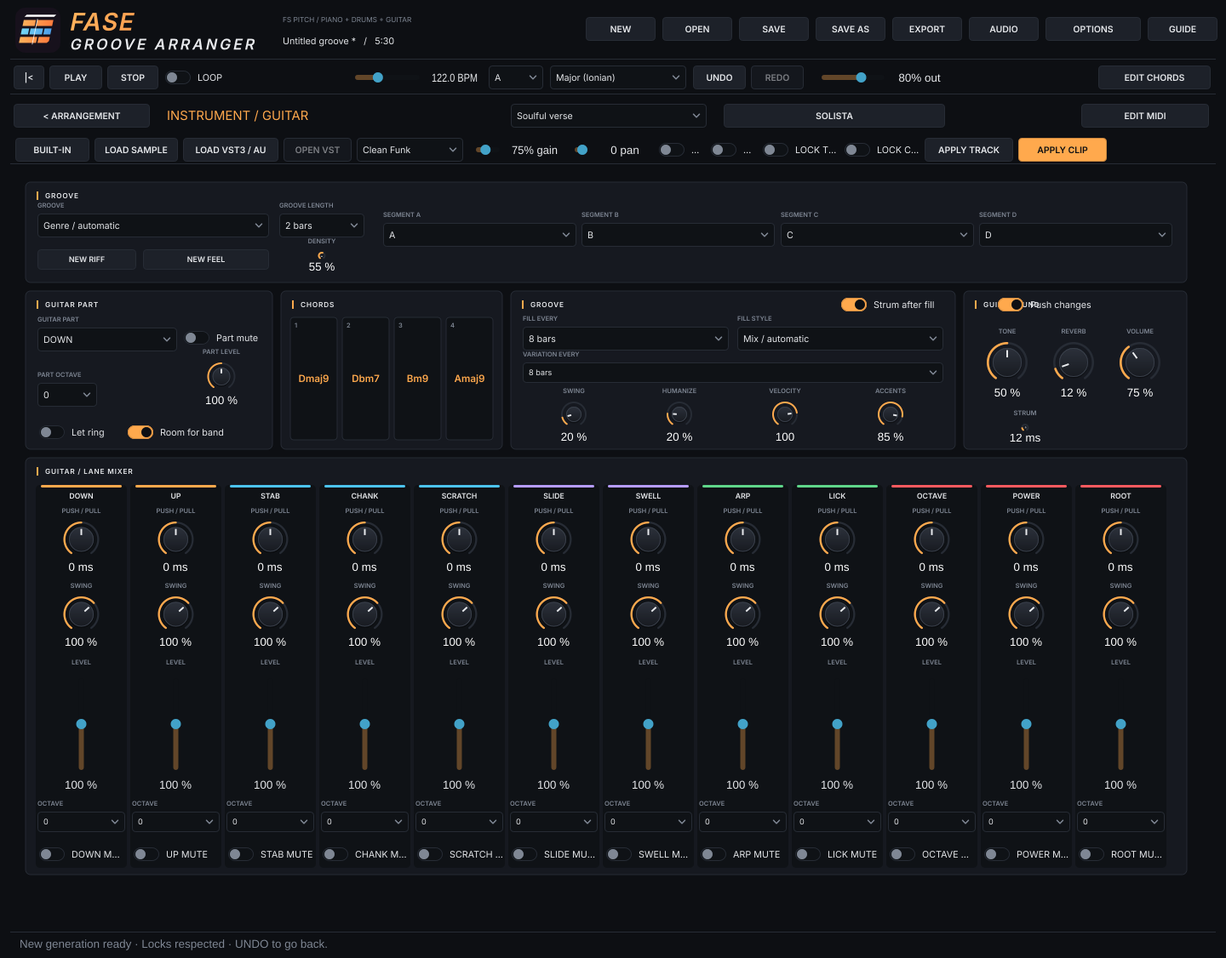
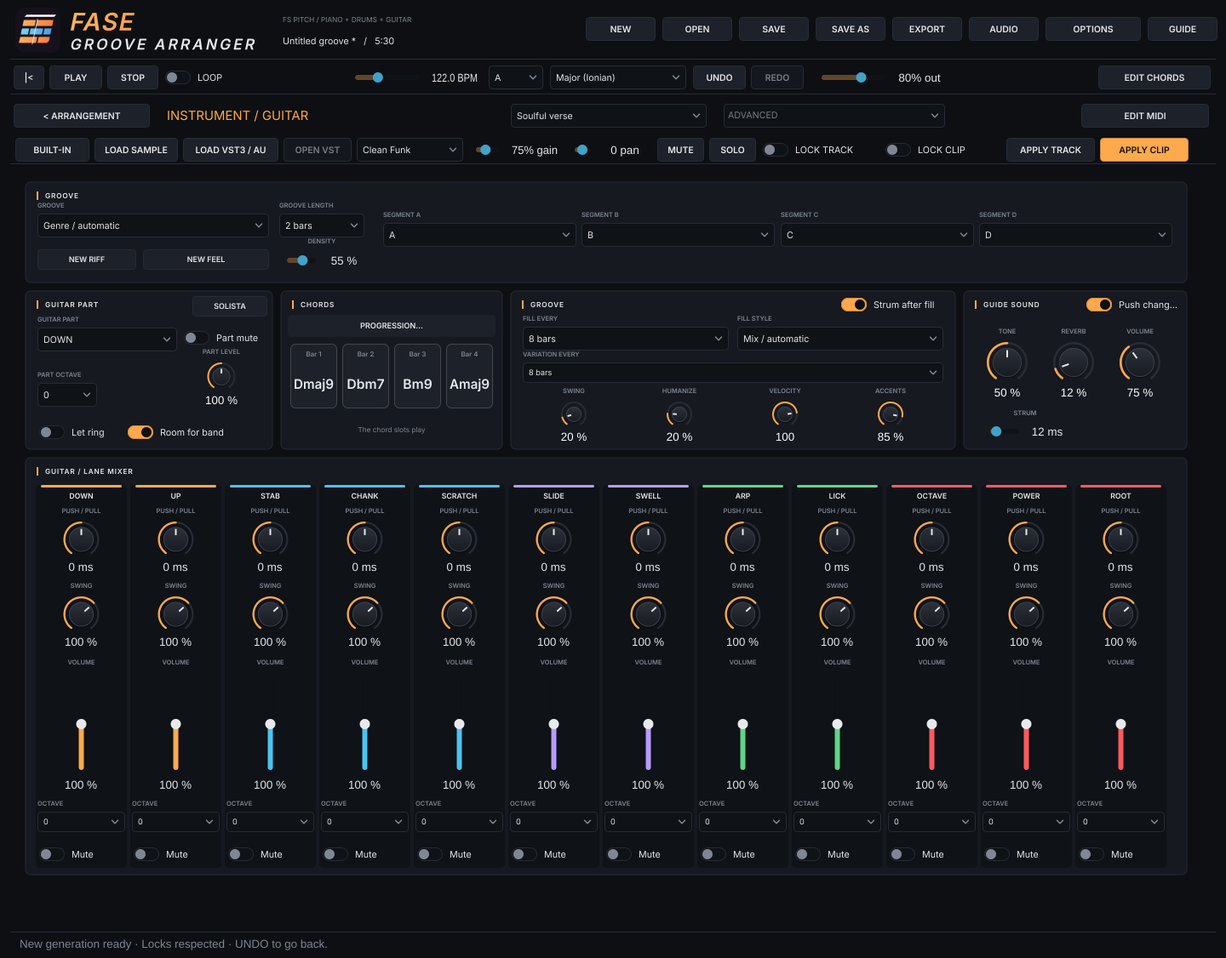
Synchronize shared family controls and independent riff seeds; refresh native guide illustrations

diff --git a/Source/InstrumentPanel.cpp b/Source/InstrumentPanel.cpp
@@ -42,15 +42,22 @@ void InstrumentPanel::updateCircle(){
     for(int i=0;i<7;++i){auto c=sgk::buildChord(s.keyRoot,s.scale,i,s.extension);diatonic.push_back({c.rootPc,c.third==3,juce::String::fromUTF8(sgk::romanNumeral(i,c).c_str()),1});}
     circle.setState(s.keyRoot,s.scale==2,tr(sgk::scaleName(s.scale)),chords,transitions,-1,diatonic);
 }
+void InstrumentPanel::refreshFromProject(){
+    const auto& t=owner.project.tracks[(size_t)owner.selectedTrack];const auto& s=owner.project.settings;
+    for(auto& c:controls){const auto name=c.component->getProperties()["fgaControl"].toString();if(auto* slider=dynamic_cast<juce::Slider*>(c.component.get())){if(name=="VOLUME")slider->setValue(t.gain*100,juce::dontSendNotification);if(name=="Part volume")slider->setValue(t.engine.laneVolume[(size_t)guitarLane]*100,juce::dontSendNotification);for(int lane=0;lane<12&&owner.selectedTrack==3;++lane)if(name==juce::String(fgg::laneShortName(lane))+" VOLUME")slider->setValue(t.engine.laneVolume[(size_t)lane]*100,juce::dontSendNotification);}
+        if(auto* box=dynamic_cast<juce::ComboBox*>(c.component.get())){if(name=="Voicing")box->setSelectedItemIndex(s.voicing,juce::dontSendNotification);if(name=="Extensions")box->setSelectedItemIndex(s.extension,juce::dontSendNotification);if(name.startsWith("Degree "))box->setSelectedItemIndex(s.degrees[(size_t)std::clamp(name.fromLastOccurrenceOf(" ",false,false).getIntValue()-1,0,7)],juce::dontSendNotification);}
+    }
+    if(owner.selectedTrack<3)updateCircle();repaint();
+}
 void InstrumentPanel::heading(const juce::String& name){headings.push_back({name,(int)controls.size()});}
 void InstrumentPanel::apply(std::function<void(EngineOptions&)> fn){owner.checkpoint();fn(owner.project.tracks[(size_t)owner.selectedTrack].engine);owner.project.normalise();owner.changed(false);owner.message("Settings apply on the next generation; the MIDI already written stays editable.");}
 void InstrumentPanel::knob(const juce::String& name,double lo,double hi,double step,double value,std::function<void(EngineOptions&,double)> fn,const juce::String& suffix){
-    auto c=std::make_unique<juce::Slider>();c->setSliderStyle(juce::Slider::RotaryHorizontalVerticalDrag);c->setTextBoxStyle(juce::Slider::TextBoxBelow,false,70,16);c->setColour(juce::Slider::textBoxOutlineColourId,juce::Colours::transparentBlack);c->setRange(lo,hi,step);c->setValue(value,juce::dontSendNotification);c->setTextValueSuffix(suffix);c->getProperties().set("fgaControl",name);c->setTooltip(controlTip(name));c->onDragStart=[this]{owner.checkpoint();};auto* raw=c.get();c->onValueChange=[this,raw,fn]{fn(owner.project.tracks[(size_t)owner.selectedTrack].engine,raw->getValue());owner.dirty=true;owner.audio.updateMix(owner.project);};addAndMakeVisible(*c);controls.push_back({std::move(c),name,true});
+    auto c=std::make_unique<juce::Slider>();c->setSliderStyle(juce::Slider::RotaryHorizontalVerticalDrag);c->setTextBoxStyle(juce::Slider::TextBoxBelow,false,70,16);c->setColour(juce::Slider::textBoxOutlineColourId,juce::Colours::transparentBlack);c->setRange(lo,hi,step);c->setValue(value,juce::dontSendNotification);c->setTextValueSuffix(suffix);c->getProperties().set("fgaControl",name);c->setTooltip(controlTip(name));c->onDragStart=[this]{owner.checkpoint();};auto* raw=c.get();c->onValueChange=[this,raw,fn,name]{fn(owner.project.tracks[(size_t)owner.selectedTrack].engine,raw->getValue());if(name=="VOLUME")owner.gainSlider.setValue(raw->getValue(),juce::dontSendNotification);owner.dirty=true;owner.audio.updateMix(owner.project);if(name=="Part volume"||name.endsWith(" VOLUME"))refreshFromProject();};addAndMakeVisible(*c);controls.push_back({std::move(c),name,true});
 }
 void InstrumentPanel::choice(const juce::String& name,const juce::StringArray& items,int selected,std::function<void(EngineOptions&,int)> fn){auto c=std::make_unique<juce::ComboBox>();c->addItemList(items,1);c->setSelectedItemIndex(selected,juce::dontSendNotification);auto* raw=c.get();c->getProperties().set("fgaControl",name);c->setTooltip(controlTip(name));c->onChange=[this,raw,fn]{apply([&](EngineOptions& e){fn(e,raw->getSelectedItemIndex());});};addAndMakeVisible(*c);controls.push_back({std::move(c),name,false});}
 void InstrumentPanel::sharedChoice(const juce::String& name,const juce::StringArray& items,int selected,std::function<void(int)> fn){auto c=std::make_unique<juce::ComboBox>();c->addItemList(items,1);c->setSelectedItemIndex(selected,juce::dontSendNotification);if(selected<0)c->setTextWhenNothingSelected("Browse...");c->getProperties().set("fgaControl",name);auto* raw=c.get();c->onChange=[this,raw,fn]{owner.checkpoint();fn(raw->getSelectedItemIndex());owner.changed(false);};addAndMakeVisible(*c);controls.push_back({std::move(c),name,false});}
 void InstrumentPanel::action(const juce::String& name,std::function<void()> fn){auto c=std::make_unique<juce::TextButton>(tr(name=="RANDOM CHORDS"?"Random":name));c->getProperties().set("fgaControl",name);c->setTooltip(controlTip(name));c->onClick=std::move(fn);addAndMakeVisible(*c);controls.push_back({std::move(c),{},false});}
-void InstrumentPanel::toggle(const juce::String& name,bool value,std::function<void(EngineOptions&,bool)> fn){auto c=std::make_unique<juce::ToggleButton>(tr(name));c->setToggleState(value,juce::dontSendNotification);auto* raw=c.get();c->getProperties().set("fgaControl",name);c->setTooltip(controlTip(name));c->onClick=[this,raw,fn]{apply([&](EngineOptions& e){fn(e,raw->getToggleState());});};addAndMakeVisible(*c);controls.push_back({std::move(c),{},false});}
+void InstrumentPanel::toggle(const juce::String& name,bool value,std::function<void(EngineOptions&,bool)> fn){auto c=std::make_unique<juce::ToggleButton>(tr(name=="Part mute"?"Mute":name));c->setToggleState(value,juce::dontSendNotification);auto* raw=c.get();c->getProperties().set("fgaControl",name);c->setTooltip(controlTip(name));c->onClick=[this,raw,fn]{apply([&](EngineOptions& e){fn(e,raw->getToggleState());});};addAndMakeVisible(*c);controls.push_back({std::move(c),{},false});}
 void InstrumentPanel::rebuild(){
     controls.clear();headings.clear();const int track=owner.selectedTrack;const auto e=owner.project.tracks[(size_t)track].engine;const bool piano=track==0,bass=track==1,strings=track==2,guitar=track==3,drum=track>=4;
     if(piano){heading("HARMONY & SCALES");juce::StringArray voicings,extensions;for(int i=0;i<sgk::numVoicings;++i)voicings.add(sgk::voicingName(i));for(int i=0;i<sgk::numExtensions;++i)extensions.add(sgk::extensionName(i));sharedChoice("Voicing",voicings,owner.project.settings.voicing,[this](int v){owner.project.settings.voicing=v;});sharedChoice("Extensions",extensions,owner.project.settings.extension,[this](int v){owner.project.settings.extension=v;});}
@@ -62,7 +69,7 @@ void InstrumentPanel::rebuild(){
     knob("SWING",0,150,1,(e.swing<0?owner.project.settings.swing:e.swing)*100,[](auto& o,double v){o.swing=v/100;}," %");knob("HUMANIZE",0,100,1,(e.humanize<0?owner.project.settings.humanize:e.humanize)*100,[](auto& o,double v){o.humanize=v/100;}," %");knob("DENSITY",0,100,1,(e.density<0?owner.project.settings.density:e.density)*100,[](auto& o,double v){o.density=v/100;}," %");knob("VELOCITY",1,127,1,e.velocity,[](auto& o,double v){o.velocity=(int)v;});
     if(piano){knob("GATE",2,200,1,e.gate*100,[](auto& o,double v){o.gate=v/100;}," %");knob("REGISTER",24,108,1,e.centre,[](auto& o,double v){o.centre=(int)v;});knob("STRUM",0,100,1,e.strum*100,[](auto& o,double v){o.strum=v/100;}," %");choice("STRUM DIRECTION",{"Up","Down","Alternate"},e.strumDirection,[](auto& o,int v){o.strumDirection=v;});choice("MOVEMENT",{"Off","Subtle","Lively"},e.movement,[](auto& o,int v){o.movement=v;});auto range=std::make_unique<juce::Slider>(juce::Slider::TwoValueHorizontal,juce::Slider::NoTextBox);range->getProperties().set("fgaControl","Range");range->setRange(0,127,1);range->setMinAndMaxValues(e.rangeLow,e.rangeHigh,juce::dontSendNotification);range->setTooltip(controlTip("RANGE LOW"));range->onDragStart=[this]{owner.checkpoint();};auto* rangePtr=range.get();range->onValueChange=[this,rangePtr]{auto& o=owner.project.tracks[(size_t)owner.selectedTrack].engine;o.rangeLow=(int)rangePtr->getMinValue();o.rangeHigh=(int)rangePtr->getMaxValue();owner.dirty=true;};addAndMakeVisible(*range);controls.push_back({std::move(range),"Range",false});toggle("Top +8va",e.octaveTop,[](auto& o,bool v){o.octaveTop=v;});toggle("Realism",e.realism,[](auto& o,bool v){o.realism=v;});
         juce::StringArray top,approach,feel;for(int i=0;i<sgk::numTopLines;++i)top.add(sgk::topLineName(i));for(int i=0;i<sgk::numApproachStyles;++i)approach.add(sgk::approachStyleName(i));for(int i=0;i<sgk::numHumanizeStyles;++i)feel.add(sgk::humanizeStyleName(i));choice("TOP LINE",top,e.topLine,[](auto& o,int v){o.topLine=v;});choice("APPROACH",approach,e.approach,[](auto& o,int v){o.approach=v;});choice("HUMANIZE STYLE",feel,e.humanizeStyle,[](auto& o,int v){o.humanizeStyle=v;});knob("EVOLVE",0,32,4,e.evolveBars,[](auto& o,double v){o.evolveBars=(int)v;}," bars");}
-    else if(guitar||drum){knob("ACCENTS",0,100,1,e.accent*100,[](auto& o,double v){o.accent=v/100;}," %");if(guitar){knob("STRUM",0,80,1,e.strum*80,[](auto& o,double v){o.strum=v/80;}," ms");toggle("Let ring",e.letRing,[](auto& o,bool v){o.letRing=v;});toggle("Room for band",e.roomForBand,[](auto& o,bool v){o.roomForBand=v;});toggle("Push changes",e.pushChanges,[](auto& o,bool v){o.pushChanges=v;});}else{knob("MIDI NOTE",0,127,1,e.midiNote<0?fgd::defaultNote(track-4):e.midiNote,[](auto& o,double v){o.midiNote=(int)v;});toggle("Genre feel",e.genreFeel,[](auto& o,bool v){o.genreFeel=v;});toggle("Bass space",e.bassSpace,[](auto& o,bool v){o.bassSpace=v;});}}
+    else if(guitar||drum){knob("ACCENTS",0,100,1,e.accent*100,[](auto& o,double v){o.accent=v/100;}," %");if(guitar){knob("STRUM",0,80,1,e.strum*80,[](auto& o,double v){o.strum=v/80;}," ms");toggle("Let ring",e.letRing,[](auto& o,bool v){o.letRing=v;});toggle("Room for band",e.roomForBand,[](auto& o,bool v){o.roomForBand=v;});}else{knob("MIDI NOTE",0,127,1,e.midiNote<0?fgd::defaultNote(track-4):e.midiNote,[](auto& o,double v){o.midiNote=(int)v;});toggle("Genre feel",e.genreFeel,[](auto& o,bool v){o.genreFeel=v;});toggle("Bass space",e.bassSpace,[](auto& o,bool v){o.bassSpace=v;});}}
     if(track<3){
         heading("PERFORMANCE");
         knob("Riff seed",0,99999,1,e.riffSeed,[](auto& o,double v){o.riffSeed=(std::uint32_t)v;});
@@ -82,17 +89,19 @@ void InstrumentPanel::rebuild(){
     if(track<3){knob("CHORUS",0,100,1,e.chorus*100,[](auto& o,double v){o.chorus=v/100;}," %");knob("PUMP",0,100,1,e.pump*100,[](auto& o,double v){o.pump=v/100;}," %");knob("PUMP RELEASE",5,100,1,e.pumpRelease*100,[](auto& o,double v){o.pumpRelease=v/100;}," % beat");choice("Sidechain Rate",{"1/4","1/8","1/2","1/16"},e.pumpRate,[](auto& o,int v){o.pumpRate=v;});choice("Sidechain Source",{"Tempo (internal)","Kick MIDI"},e.pumpSource,[](auto& o,int v){o.pumpSource=v;});}
     if(guitar||drum){heading(guitar?"GUITAR / LANE MIXER":"DRUM / POCKET");const int lanes=guitar?12:1;for(int i=0;i<lanes;++i){const size_t l=(size_t)i;const juce::String name=guitar?fgg::laneShortName(i):fgd::laneName(track-4);if(guitar){knob(name+" VOLUME",0,200,1,e.laneVolume[l]*100,[l](auto& o,double v){o.laneVolume[l]=v/100;}," %");choice(name+" OCTAVE",{"-2","-1","0","+1","+2"},e.laneOctave[l]+2,[l](auto& o,int v){o.laneOctave[l]=v-2;});toggle(name+" MUTE",e.laneMute[l],[l](auto& o,bool v){o.laneMute[l]=v;});}knob(name+" SWING",0,150,1,e.laneSwing[l]*100,[l](auto& o,double v){o.laneSwing[l]=v/100;}," %");knob(name+" PUSH / PULL",-100,100,1,e.laneShift[l],[l](auto& o,double v){o.laneShift[l]=v;}," ms");}}
     if(guitar){
+        action("PLAYING...",[this]{auto e=owner.project.tracks[3].engine;juce::PopupMenu menu;menu.addItem(1,tr("Let ring"),true,e.letRing);menu.addItem(2,tr("Room for band"),true,e.roomForBand);menu.addItem(3,tr("Push changes"),true,e.pushChanges);juce::Component::SafePointer<InstrumentPanel> self(this);menu.showMenuAsync(juce::PopupMenu::Options(),[self](int id){if(!self||id==0)return;self->apply([id](auto& o){if(id==1)o.letRing=!o.letRing;if(id==2)o.roomForBand=!o.roomForBand;if(id==3)o.pushChanges=!o.pushChanges;});self->rebuild();});});
         action("SOLISTA",[this]{if(owner.leadButton.onClick)owner.leadButton.onClick();});
         if(auto* button=dynamic_cast<juce::Button*>(controls.back().component.get())){button->setClickingTogglesState(true);button->setToggleState(owner.project.settings.guitarLead,juce::dontSendNotification);}
         juce::StringArray lanes;for(int i=0;i<12;++i)lanes.add(fgg::laneShortName(i));
         sharedChoice("Guitar part",lanes,guitarLane,[this](int v){guitarLane=v;juce::Component::SafePointer<InstrumentPanel> self(this);juce::MessageManager::callAsync([self]{if(self)self->rebuild();});});
         knob("Part level",0,200,1,e.laneLevel[(size_t)guitarLane]*100,[lane=guitarLane](auto& o,double v){o.laneLevel[(size_t)lane]=v/100;}," %");
+        knob("Part volume",0,200,1,e.laneVolume[(size_t)guitarLane]*100,[lane=guitarLane](auto& o,double v){o.laneVolume[(size_t)lane]=v/100;}," %");
         choice("Part octave",{"-2","-1","0","+1","+2"},e.laneOctave[(size_t)guitarLane]+2,[lane=guitarLane](auto& o,int v){o.laneOctave[(size_t)lane]=v-2;});
         toggle("Part mute",e.laneMute[(size_t)guitarLane],[lane=guitarLane](auto& o,bool v){o.laneMute[(size_t)lane]=v;});
         auto chords=std::make_unique<ChordSummary>(owner,[this]{owner.showChordMenu();});chords->getProperties().set("fgaControl","Chord summary");addAndMakeVisible(*chords);controls.push_back({std::move(chords),{},false});
     }
     if(track>=3)action("NEW FEEL",[this]{apply([](auto& o){o.humanizeSeed=(std::uint32_t)juce::Random::getSystemRandom().nextInt({1,100000});});});
-    action("NEW RIFF",[this]{apply([](auto& o){o.riffSeed=(std::uint32_t)juce::Random::getSystemRandom().nextInt({1,100000});});});
+    action("NEW RIFF",[this]{const auto& e=owner.project.tracks[(size_t)owner.selectedTrack].engine;if(owner.selectedTrack<3&&std::any_of(e.segmentLocked.begin(),e.segmentLocked.end(),[](bool locked){return locked;}))owner.randomPianoMaterial(false,owner.selectedTrack==1);else apply([](auto& o){o.riffSeed=(std::uint32_t)juce::Random::getSystemRandom().nextInt({1,100000});o.pattern=-1;});juce::Component::SafePointer<InstrumentPanel> self(this);juce::MessageManager::callAsync([self]{if(self)self->rebuild();});});
     if(track<3){
         juce::StringArray presets;for(const auto& p:sgk::progressionPresets())presets.add(juce::String(p.category)+" / "+p.name);
         sharedChoice("Ready progressions",presets,-1,[this](int v){chooseProgression(owner.project,v);updateCircle();juce::Component::SafePointer<InstrumentPanel> self(this);juce::MessageManager::callAsync([self]{if(self)self->rebuild();});});
@@ -163,7 +172,7 @@ void InstrumentPanel::resized(){
         card(guitar?"GUITAR PART":"KIT & SOUNDS",18,my,part,186);
         card(guitar?"CHORDS":"DRUM / POCKET",318,my,chords,186);
         card("GROOVE",grooveX,my,grooveW,186);card("GUIDE SOUND",W-sound-18,my,sound,186);
-        if(guitar){tool("SOLISTA",214,my+6,88);put("Guitar part",32,my+43,164);put("Part mute",202,my+43,92,24);put("Part octave",32,my+108,70);put("Part level",202,my+81,92,55);put("Let ring",32,my+154,100,24);put("Room for band",136,my+154,158,24);put("Chord summary",326,my+28,244,150);put("STRUM",W-sound+4,my+153,100,24);put("Strum after fill",grooveX+grooveW-136,my+6,122,20);put("Push changes",W-138,my+6,110,20);}
+        if(guitar){tool("SOLISTA",214,my+6,88);put("Guitar part",32,my+43,164);put("Part mute",202,my+43,92,24);put("Part octave",32,my+108,70);put("Part level",150,my+81,70,55);put("Part volume",228,my+81,72,55);put("Let ring",32,my+154,100,24);put("Room for band",136,my+154,158,24);put("Chord summary",326,my+28,244,150);put("STRUM",W-sound+4,my+153,100,24);put("Strum after fill",grooveX+grooveW-136,my+6,122,20);tool("PLAYING...",W-112,my+6,84);}
         else{put("MIDI NOTE",32,my+45,100,74);put("Genre feel",148,my+42,146,24);put("Bass space",148,my+76,146,24);put("Crash after fill",32,my+143,180,24);const auto name=juce::String(fgd::laneName(track-4));put(name+" SWING",332,my+58,110,80);put(name+" PUSH / PULL",450,my+58,110,80);}
         put("FILL EVERY",grooveX+14,my+42,(grooveW-38)/2);put("FILL STYLE",grooveX+24+(grooveW-38)/2,my+42,(grooveW-38)/2);
         put("VARIATION EVERY",grooveX+14,my+84,grooveW-28,24);
@@ -171,7 +180,7 @@ void InstrumentPanel::resized(){
         const int sx=W-sound-4;int kx=0;for(const auto* n:{"TONE","REVERB","VOLUME"})put(n,sx+(kx++)*78,my+57,74,70);
     }
     if(!piano)for(auto& c:controls)if(c.component->getProperties()["fgaControl"].toString()=="DENSITY"||c.component->getProperties()["fgaControl"].toString()=="STRUM")if(auto* slider=dynamic_cast<juce::Slider*>(c.component.get())){slider->setSliderStyle(juce::Slider::LinearHorizontal);slider->setTextBoxStyle(juce::Slider::TextBoxRight,false,48,22);}
-    for(auto& c:controls){const auto name=c.component->getProperties()["fgaControl"].toString();if(name=="REGISTER")if(auto* slider=dynamic_cast<juce::Slider*>(c.component.get()))slider->textFromValueFunction=[](double v){return juce::MidiMessage::getMidiNoteName((int)v,true,true,4);};if(owner.selectedTrack==3&&name.endsWith(" MUTE"))if(auto* button=dynamic_cast<juce::Button*>(c.component.get()))button->setButtonText(tr("Mute"));}
+    for(auto& c:controls){const auto name=c.component->getProperties()["fgaControl"].toString();if(name=="REGISTER")if(auto* slider=dynamic_cast<juce::Slider*>(c.component.get())){slider->textFromValueFunction=[](double v){return juce::MidiMessage::getMidiNoteName((int)v,true,true,4);};slider->updateText();}if(owner.selectedTrack==3&&name.endsWith(" MUTE"))if(auto* button=dynamic_cast<juce::Button*>(c.component.get()))button->setButtonText(tr("Mute"));}
     int bottom=y+(piano?350:324);
     if(piano){
         card("RHYTHM / VELOCITY",18,bottom,W-36,280);
@@ -208,7 +217,7 @@ void InstrumentPanel::paint(juce::Graphics& g){
     g.fillAll(Palette::background);
     for(const auto& card:cards){g.setColour(Palette::panel);g.fillRoundedRectangle(card.bounds.toFloat(),6);g.setColour(Palette::panelEdge);g.drawRoundedRectangle(card.bounds.toFloat(),6,1);g.setColour(Palette::accent);g.fillRect(card.bounds.getX()+13,card.bounds.getY()+11,2,10);auto font=FamilyTheme::font(10,true);font.setExtraKerningFactor(.08f);g.setFont(font);g.setColour(Palette::text);g.drawText(tr(card.title),card.bounds.getX()+23,card.bounds.getY()+4,card.bounds.getWidth()-32,24,juce::Justification::centredLeft);}
     if(owner.selectedTrack==3)for(const auto& card:cards)if(card.title=="GUITAR / LANE MIXER"){const int lw=(getWidth()-64)/12;for(int lane=0;lane<12;++lane){const int x=32+lane*lw;auto r=juce::Rectangle<float>((float)x-2,(float)card.bounds.getY()+32,(float)lw-4,450);g.setColour(Palette::field);g.fillRoundedRectangle(r,5);const auto ink=lane<=1?Palette::accent:lane<=4?Palette::accent2:lane<=6?Palette::percussion:lane<=8?Palette::cymbals:Palette::toms;g.setColour(ink);g.fillRoundedRectangle(r.withHeight(3).reduced(6,0),1.5f);g.setColour(Palette::text);g.setFont(FamilyTheme::font(10.5f,true));g.drawText(tr(fgg::laneShortName(lane)),r.withTrimmedTop(5).withHeight(16),juce::Justification::centred);}}
-    for(const auto& c:controls){if(c.component->getWidth()==0||dynamic_cast<PianoStepGrid*>(c.component.get()))continue;auto r=c.component->getBounds();if(c.caption.startsWith("Degree ")||c.caption.startsWith("Inversion "))continue;g.setColour(Palette::dim);g.setFont(FamilyTheme::font(9,true));auto caption=c.caption;if(owner.selectedTrack==3)for(int lane=0;lane<12;++lane){auto prefix=juce::String(fgg::laneShortName(lane))+" ";if(caption.startsWith(prefix))caption=caption.substring(prefix.length());}g.drawText(tr(caption).toUpperCase(),r.getX(),r.getY()-17,r.getWidth(),15,c.knob?juce::Justification::centred:juce::Justification::centredLeft);}
+    for(const auto& c:controls){if(c.component->getWidth()==0||dynamic_cast<PianoStepGrid*>(c.component.get()))continue;auto r=c.component->getBounds();if(c.caption.startsWith("Degree ")||c.caption.startsWith("Inversion "))continue;g.setColour(Palette::dim);g.setFont(FamilyTheme::font(9,true));auto caption=c.caption;if(caption.startsWithIgnoreCase("Part "))caption=caption.substring(5);if(owner.selectedTrack==3)for(int lane=0;lane<12;++lane){auto prefix=juce::String(fgg::laneShortName(lane))+" ";if(caption.startsWith(prefix))caption=caption.substring(prefix.length());}g.drawText(tr(caption).toUpperCase(),r.getX(),r.getY()-17,r.getWidth(),15,c.knob?juce::Justification::centred:juce::Justification::centredLeft);}
     if(owner.selectedTrack<3){auto names=chordNames(owner.project.settings);const int sw=(getWidth()-346)/8;for(size_t i=0;i<8;++i){auto card=juce::Rectangle<float>((float)(326+(int)i*sw),28,(float)(sw-4),104);g.setColour(Palette::field.withAlpha(i<names.size()?1.f:.45f));g.fillRoundedRectangle(card,6);g.setColour(Palette::panelEdge);g.drawRoundedRectangle(card,6,1);if(i>=names.size())continue;g.setColour(Palette::text);g.setFont(FamilyTheme::font(14,true));g.drawText(juce::String::fromUTF8(names[i].c_str()),328+(int)i*sw,67,sw-8,22,juce::Justification::centred);}}
 }
 }

diff --git a/Source/MainComponent.cpp b/Source/MainComponent.cpp
@@ -243,7 +243,7 @@ void MainComponent::refreshControls(){
     refreshing=true;auto& s=project.settings;durationLabel.setText(juce::String((int)(project.length()*60/s.bpm)/60)+":"+juce::String((int)(project.length()*60/s.bpm)%60).paddedLeft('0',2),juce::dontSendNotification);leadButton.setToggleState(s.guitarLead,juce::dontSendNotification);leadButton.setButtonText("SOLISTA");sectionSelector.clear(juce::dontSendNotification);for(size_t i=0;i<project.sections.size();++i)sectionSelector.addItem(utf(project.sections[i].name),((int)i)+1);sectionSelector.setSelectedId(selectedSection+1,juce::dontSendNotification);genreBox.setSelectedId(s.genre+1,juce::dontSendNotification);keyBox.setSelectedId(s.key+1,juce::dontSendNotification);scaleBox.setSelectedId(s.scale+1,juce::dontSendNotification);extensionBox.setSelectedId(s.extension+1,juce::dontSendNotification);voicingBox.setSelectedId(s.voicing+1,juce::dontSendNotification);bassBox.setSelectedId(s.bassMode+1,juce::dontSendNotification);stringsBox.setSelectedId(s.stringsMode+1,juce::dontSendNotification);
     tempoSlider.setValue(s.bpm,juce::dontSendNotification);swingSlider.setValue(s.swing*100,juce::dontSendNotification);densitySlider.setValue(s.density*100,juce::dontSendNotification);humanizeSlider.setValue(s.humanize*100,juce::dontSendNotification);masterSlider.setValue(project.masterGain*100,juce::dontSendNotification);loopButton.setToggleState(project.loop,juce::dontSendNotification);
     juce::StringArray chords;for(auto name:chordNames(s))chords.add(utf(name));chordsLabel.setText(tr("HARMONY")+"   "+chords.joinIntoString("    /    "),juce::dontSendNotification);
-    undoButton.setEnabled(!undoStack.empty());redoButton.setEnabled(!redoStack.empty());refreshing=false;refreshTrack();updateSizes();translateControls(*this);
+    undoButton.setEnabled(!undoStack.empty());redoButton.setEnabled(!redoStack.empty());refreshing=false;refreshTrack();if(page==Page::instrument)instrumentPanel.refreshFromProject();updateSizes();translateControls(*this);
 }
 void MainComponent::refreshTrack(){
     refreshing=true;const auto& t=project.tracks[(size_t)selectedTrack];gainSlider.setValue(t.gain*100,juce::dontSendNotification);panSlider.setValue(t.pan*100,juce::dontSendNotification);muteButton.setToggleState(t.mute,juce::dontSendNotification);soloButton.setToggleState(t.solo,juce::dontSendNotification);lockButton.setToggleState(t.locked,juce::dontSendNotification);lockClipButton.setToggleState(clip().locked,juce::dontSendNotification);

diff --git a/tests/CoreTests.cpp b/tests/CoreTests.cpp
@@ -9,6 +9,7 @@
 void check(bool b,const char* message){if(!b)throw std::runtime_error(message);}
 int main(int argc,char** argv){try{
     {auto p=fga::newProject(1);p.sections={{fga::Section::main,4,"Main"}};p.normalise();auto& e=p.tracks[0].engine;e.pattern=sgk::userPatternIndex();e.userRight.fill('.');e.userLeft.fill('.');e.userRight[0]='x';e.userVelRight[0]=37;e.realism=false;e.humanize=0;e.swing=0;e.strum=0;e.fillEvery=0;e.variationEvery=0;fga::generate(p,fga::Scope::track,0);check(!p.tracks[0].clips[0].notes.empty(),"custom piano grid generates notes");auto before=p.tracks[0].clips[0].notes;e.userVelRight[0]=120;fga::generate(p,fga::Scope::track,0);check(p.tracks[0].clips[0].notes[0].velocity>before[0].velocity,"per-step piano velocity reaches engine");e.inversions[0]=2;fga::generate(p,fga::Scope::track,0);check(p.tracks[0].clips[0].notes!=before,"per-chord inversion reaches engine");e.pedalCC=true;auto events=fga::events(p,0);bool pedal=false,expression=false;for(auto event:events){pedal=pedal||event.controller==64;expression=expression||event.controller==11;}check(pedal&&expression,"pedal and expression controller events");auto original=p;fga::applyPianoIntention(p,0,1,true,true,123);check(p.settings.degrees==original.settings.degrees&&p.tracks[0].engine.userRight==original.tracks[0].engine.userRight,"DNA rhythm and harmony locks");}
+    {auto p=fga::newProject(1);auto& e=p.tracks[0].engine;e.pattern=-1;e.riffSeed=123;auto a=fga::pianoEngineSettings(p,0,55);auto patternA=sgk::GrooveEngine::basePattern(a);e.riffSeed=9876;auto b=fga::pianoEngineSettings(p,0,55);auto patternB=sgk::GrooveEngine::basePattern(b);check(patternA.rightHand!=patternB.rightHand||patternA.leftHand!=patternB.leftHand,"riff seed changes the automatic genre groove");check(a.humanizeSeed==b.humanizeSeed,"riff and humanize seeds are independent");}
     for(int genre=0;genre<13;++genre){
         auto p=fga::newProject(genre);auto original=p;
         {auto form=p;form.settings.songMinutes=20;fga::arrangeSong(form);check(form.length()==p.length(),"legacy minutes do not constrain musical form");auto slow=p;slow.settings.bpm=80;fga::arrangeSong(slow);check(slow.length()==p.length(),"tempo does not stretch a musical form to minutes");auto developing=p;developing.tracks[0].engine.grooveBars=4;fga::arrangeSong(developing);check(developing.length()>p.length(),"longer groove develops over more complete phrases");}

diff --git a/Source/UiText.cpp b/Source/UiText.cpp
@@ -24,10 +24,12 @@ juce::String controlTip(const juce::String& key){
     if(key.endsWithIgnoreCase(" PUSH / PULL"))return tr("PUSH: ahead of the beat (-) or laid back (+), in milliseconds");
     if(key.endsWithIgnoreCase(" SWING"))return tr("SWING: how much of the swing this lane takes (100% = as the Swing knob)");
     if(key.endsWithIgnoreCase(" OCTAVE")||key=="Part octave")return tr("This lane up or down by octaves (the voicing keeps its shape)");
-    if(key.endsWithIgnoreCase(" VOLUME")&&key!="VOLUME")return tr("volume of the guide sound. The MIDI velocities don't change: LEVEL does that");
+    if(key=="Part volume"||(key.endsWithIgnoreCase(" VOLUME")&&key!="VOLUME"))return tr("volume of the guide sound. The MIDI velocities don't change: LEVEL does that");
     if(key=="Part level")return tr("This lane's LEVEL: its MIDI velocities (and so the clips) go up or down");
     if(key=="Range")return controlTip("RANGE LOW");
     if(key=="Ready progressions")return controlTip("PROGRESSION");
+    if(key=="NEW RIFF")return tr("New random funky riff (locked parts are kept)");
+    if(key.endsWithIgnoreCase(" MUTE")||key=="Part mute")return tr("Mute this lane (MIDI out, guide guitar and clips)");
     if(key.equalsIgnoreCase("GROOVE"))return tr("The rhythm of both hands, grouped by genre");
     if(key.equalsIgnoreCase("REGISTER"))return tr("Moves the right hand up or down the keyboard");
     if(key.equalsIgnoreCase("STRUM"))return tr("Rolls the chord notes like a pianist instead of hitting them all together");

diff --git a/Source/core/Project.cpp b/Source/core/Project.cpp
@@ -62,7 +62,8 @@ template<class E, class Filter> std::vector<Note> notesFrom(const std::vector<E>
 }
 sgk::GrooveSettings pianoEngineSettings(const Project& p,int track,std::uint32_t seed){
     const auto& s=p.settings;const auto& e=p.tracks[(size_t)track].engine;auto trackSettings=s;if(e.density>=0)trackSettings.density=e.density;
-    auto ps=pianoSettings(trackSettings,seed);
+    auto ps=pianoSettings(trackSettings,e.riffSeed?e.riffSeed:seed);
+    ps.humanizeSeed=e.humanizeSeed?e.humanizeSeed:seed;
     ps.swing=(float)(e.swing<0?s.swing:e.swing);ps.humanize=(float)(e.humanize<0?s.humanize:e.humanize);ps.riffDensity=(float)(e.density<0?s.density:e.density);
     ps.velocity=e.velocity;ps.gate=(float)e.gate;ps.strum=(float)e.strum;ps.centre=e.centre;ps.movement=e.movement;ps.octaveTop=e.octaveTop;
     ps.strumDirection=e.strumDirection;ps.topLine=(sgk::TopLine)e.topLine;ps.approach=(sgk::ApproachStyle)e.approach;ps.evolveBars=e.evolveBars;ps.humanizeStyle=e.humanizeStyle;ps.bassFeel=e.bassFeel;

diff --git a/Source/InstrumentPanel.h b/Source/InstrumentPanel.h
@@ -11,6 +11,7 @@ class InstrumentPanel : public juce::Component {
 public:
     explicit InstrumentPanel(MainComponent&);
     void rebuild();
+    void refreshFromProject();
     juce::String layoutProblems()const;
     int sectionPosition(const juce::String& name)const{for(size_t i=0;i<headings.size()&&i<headingY.size();++i)if(headings[i].first==name)return headingY[i];return 0;}
     juce::StringArray sectionNames()const{juce::StringArray names;for(const auto& h:headings)names.add(h.first);return names;}

diff --git a/docs/VALIDATION.md b/docs/VALIDATION.md
@@ -2,7 +2,7 @@
 
 ## Family editor revision, 0.4.0
 
-[Native builds on Windows, macOS and Linux](https://github.com/wsx79/fasegroovearranger/actions/runs/39385637071), source `56e67d16c57446acc098fe7218c2b76bf39f115c`, passed all four jobs. Native screenshots were inspected against the original Piano extended layout, Drums grid and Guitar layout. Panel bounds/overlap checks passed for Piano, Bass, Strings, Kick and Guitar; six-language switching and original musical tool checks passed. Further visual refinements and editing-gesture/audio tests are part of the subsequent source revision and require that revision’s CI result.
+[Native builds on Windows, macOS and Linux](https://github.com/wsx79/fasegroovearranger/actions/runs/39385637071), source `56e67d16c57446acc098fe7218c2b76bf39f115c`, passed all four jobs. Native screenshots were inspected against the original Piano extended layout, Drums grid and Guitar layout. Panel bounds/overlap checks passed for Piano, Bass, Strings, Kick and Guitar; six-language switching and original musical tool checks passed. The subsequent [native revision](https://github.com/wsx79/fasegroovearranger/actions/runs/39387405449), source `f53d1b61532f9a45b3a54a862f4af22289092692`, also passed all four jobs. Actual editor gestures passed for all five instrument types and guitar note mode. Independent WAV inspection confirmed silence with guitar guide faders at zero and guitar parts muted, while MIDI bytes stayed unchanged. Further source refinements must be checked against their own final CI result.
 
 The local core suite passes all thirteen genres with complete phrases, stored-take determinism, scope isolation and locks. New checks verify that the legacy minute property and tempo do not stretch the musical form to a clock target, longer developing motifs and sparse/busy grooves affect phrase development, and the original intro’s harmonic content is not stripped into a compulsory mixing window. Independent SMF parsing passes conductor + 17 tracks and isolated Kick/Piano stems, matched note pairs, controller resets and section markers.
 
